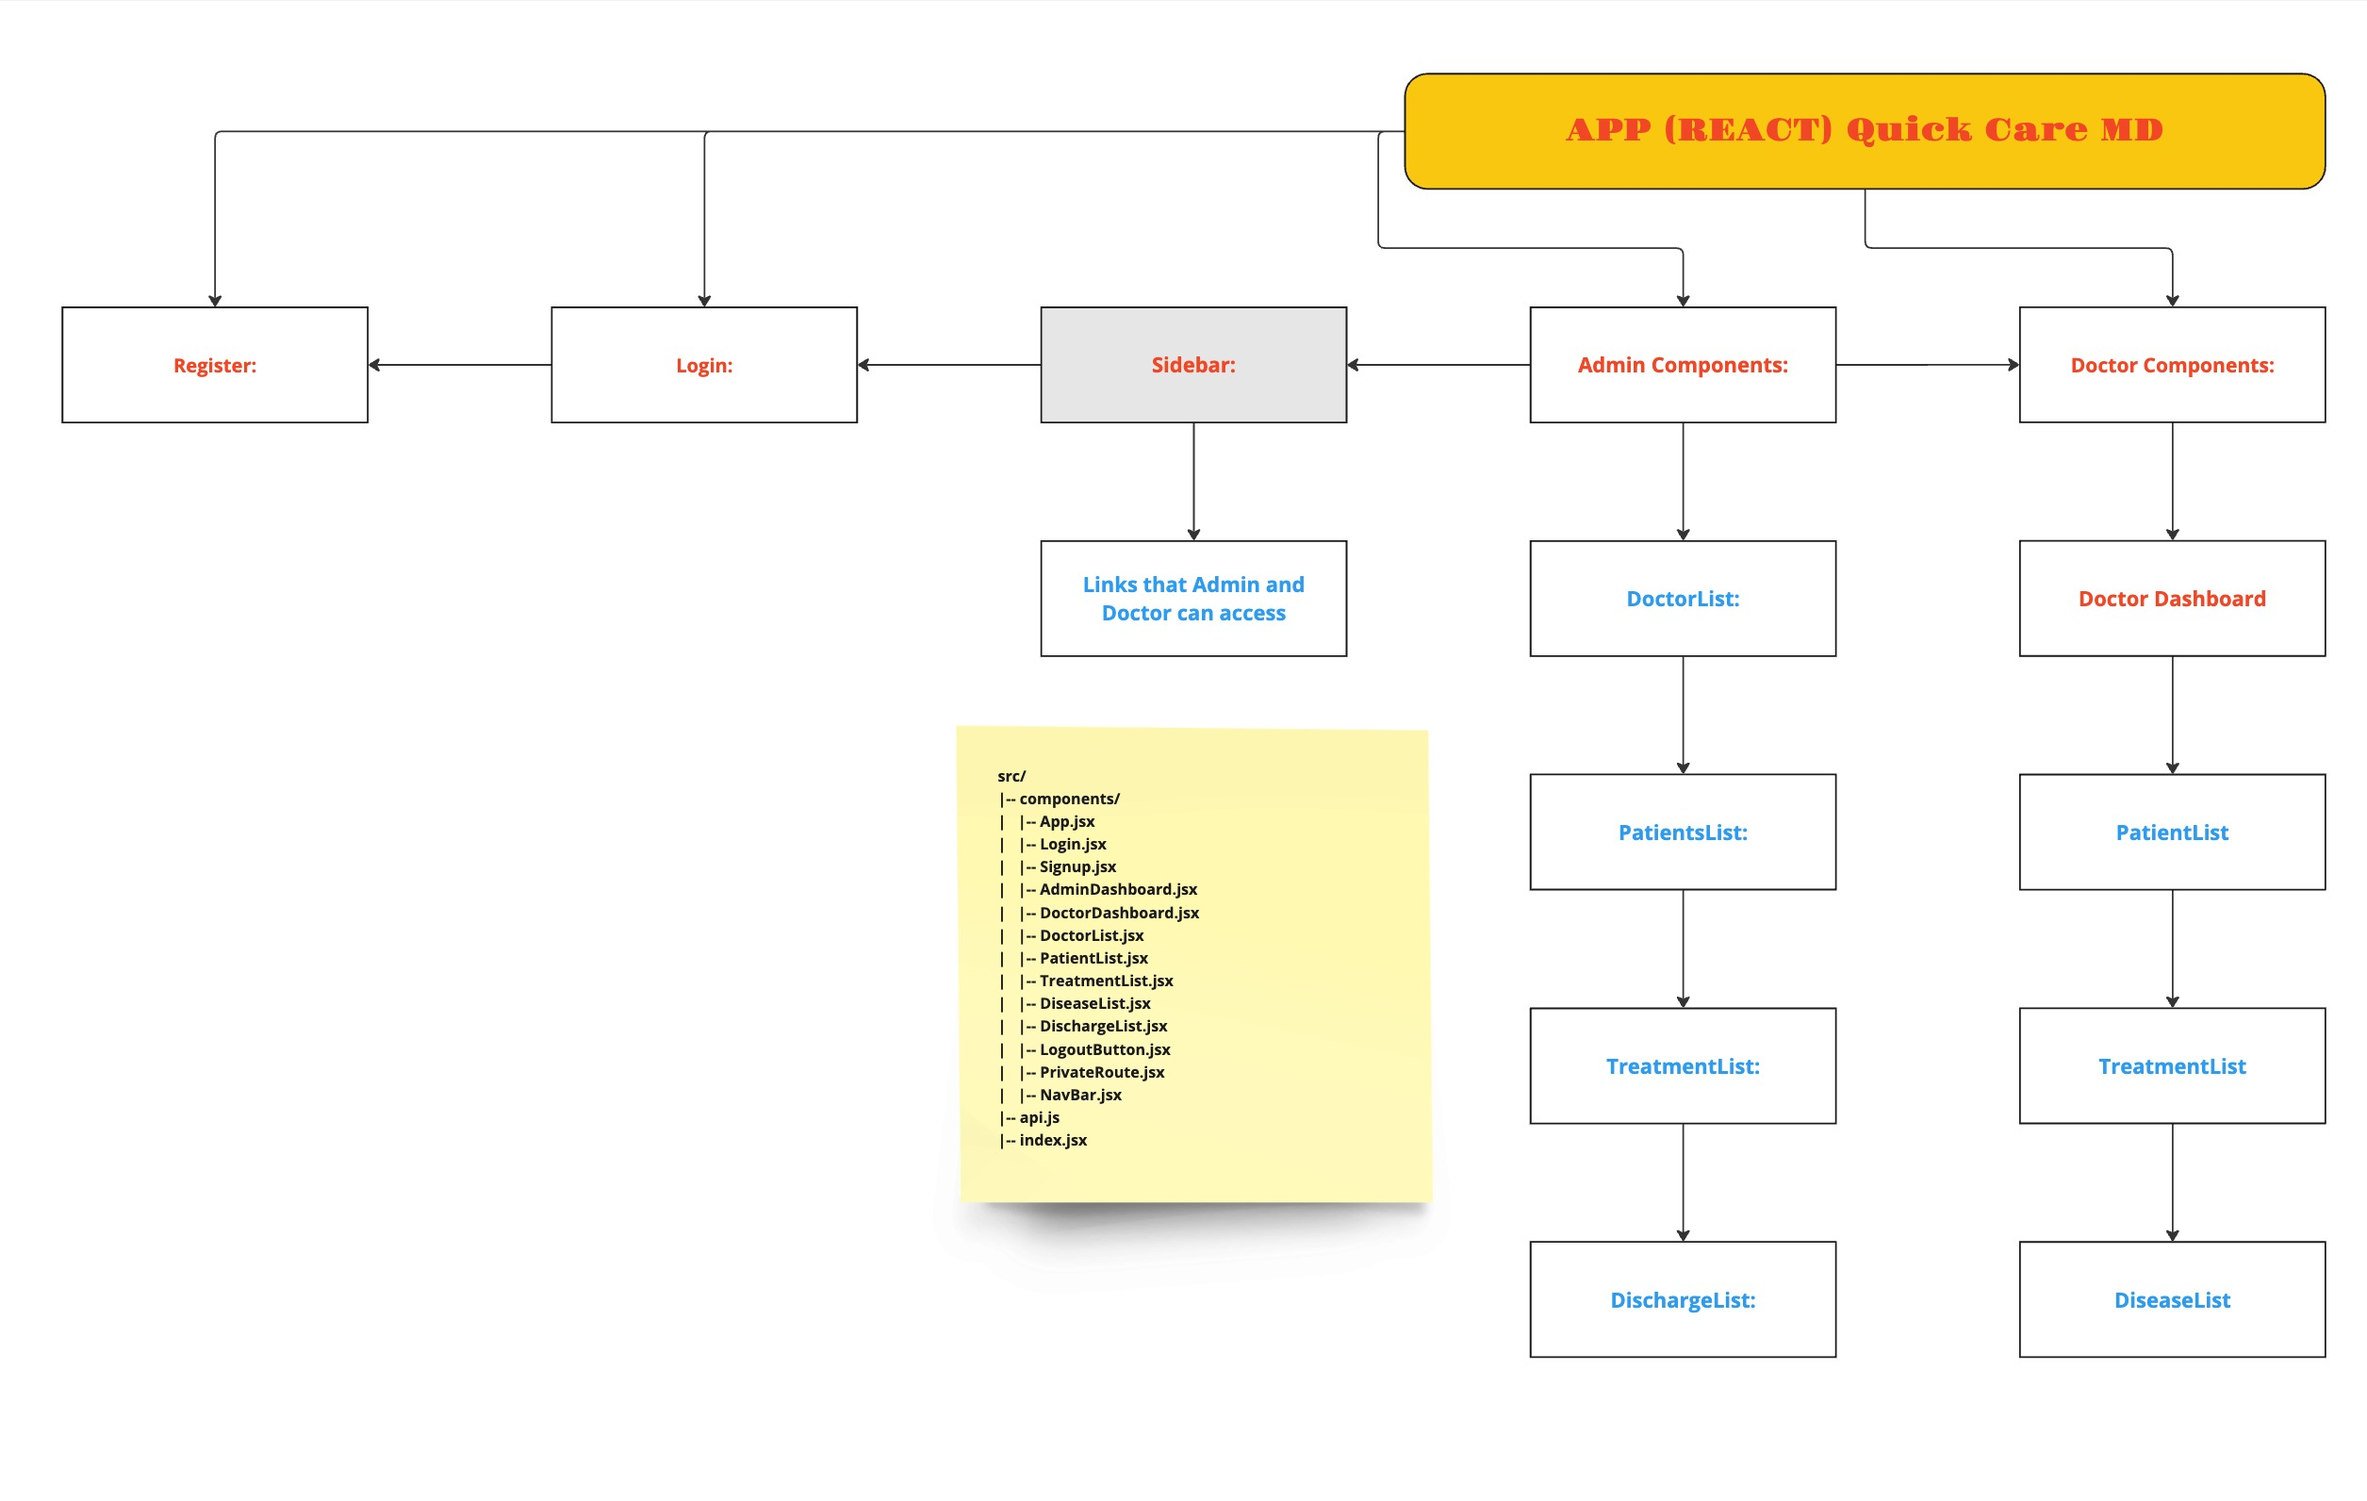
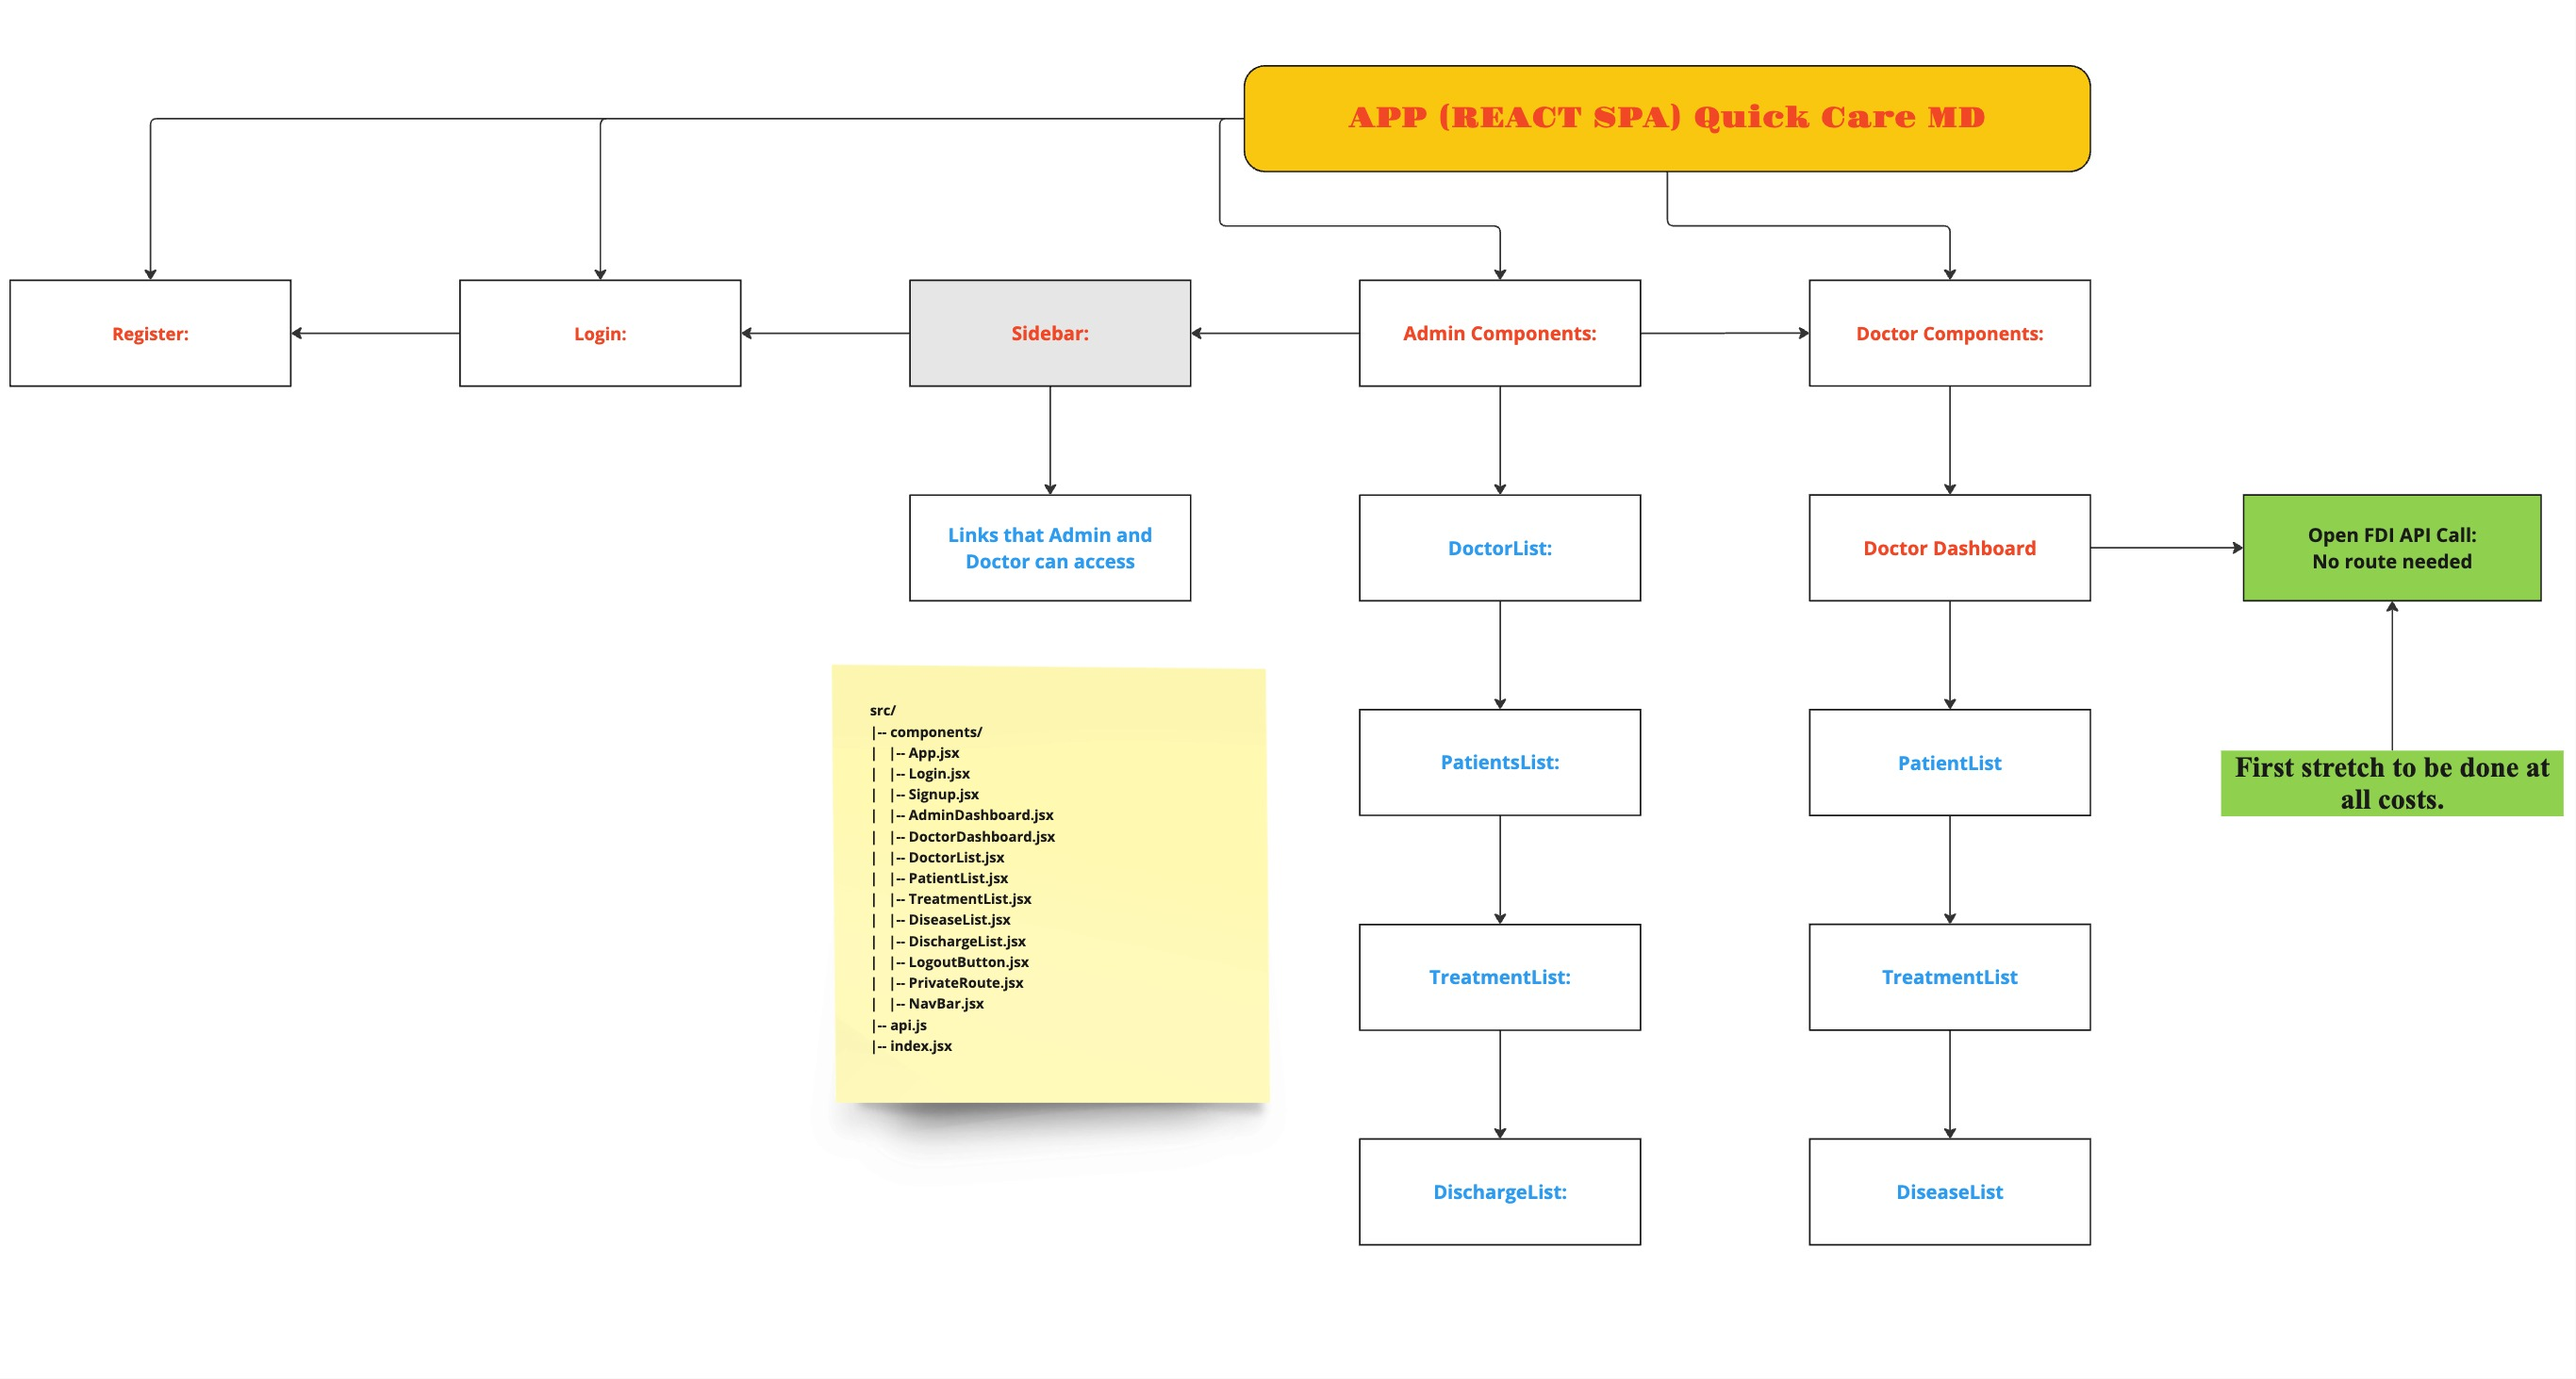
Refactor README.md for Quick Care MD App

diff --git a/README.md b/README.md
@@ -143,7 +143,7 @@ class Discharge(models.Model):
 ![Component Diagram](./Component%20Diagram%20MD%20-%20Component%20Diagram.jpg)
 ![Summary of the Component Diagram](./Component%20Diagram%20MD%20-%20Explanation%20of%20components.jpg)
 
-# Component Breakdown for Quick Care MD App
+## Component Breakdown for Quick Care MD App
 
 | Component           | Description                                                                                 | Role           | Functionality                                          |
 | ------------------- | ------------------------------------------------------------------------------------------- | -------------- | ------------------------------------------------------ |
@@ -183,13 +183,15 @@ class Discharge(models.Model):
 
 ## MVP Stretch Goals
 
+- The first stretch goal should be FDA Open API for disease and treatment matching (No need for route
+  since it is an open and should be callable from front-end)
+- Api implementation of the diseases Mayo Clinic and / or National Institute of Health (free API)
 - As a Hospital / Admin, I want to see a list of discharged patients.
 - As a doctor, I want to have access to the list of discharged patients for record keeping.
 - As a Hospital / Admin, I want to be able to hire nurses assigned to a doctor to delegate tasks.
 - As a Hospital / Admin I want to be able to evaluate the performance of my doctors.
 - As an Admin I want the ability to inform the doctors of their login info securely and via email that
   they will have to provide during their hiriing process.
-- Api implementation of the diseases Mayo Clinic and / or National Institute of Health (free API)
 
 ## Team expectations and roles
 
@@ -225,14 +227,14 @@ push and commit, and test often"
 |  15th Sunday   |     Time Off / Research API      |
 |  16th Monday   | Begin functions/ Launch Back End |
 |  17th Tuesday  | Finalize Backend / _Deployment_  |
-| 18th Wednesday | Begin Front End / _Deployment_  |
+| 18th Wednesday |  Begin Front End / _Deployment_  |
 | 19th Thursday  |        Continue Front End        |
 |  20th Friday   |       Review Stretch Goals       |
 | 21st Saturday  |        Finalize Front End        |
 |  22nd Sunday   | Time Off / Testing and Bug fixes |
 |  23rd Monday   |    Add CSS/ launch front end     |
 |  24th Tuesday  |     Implement Stretch Goals      |
-| 25th Wednesday |         Presentation Day         |
+| 25th Wednesday |       **Presentation Day**       |
 
 ## Day to day plan
 
